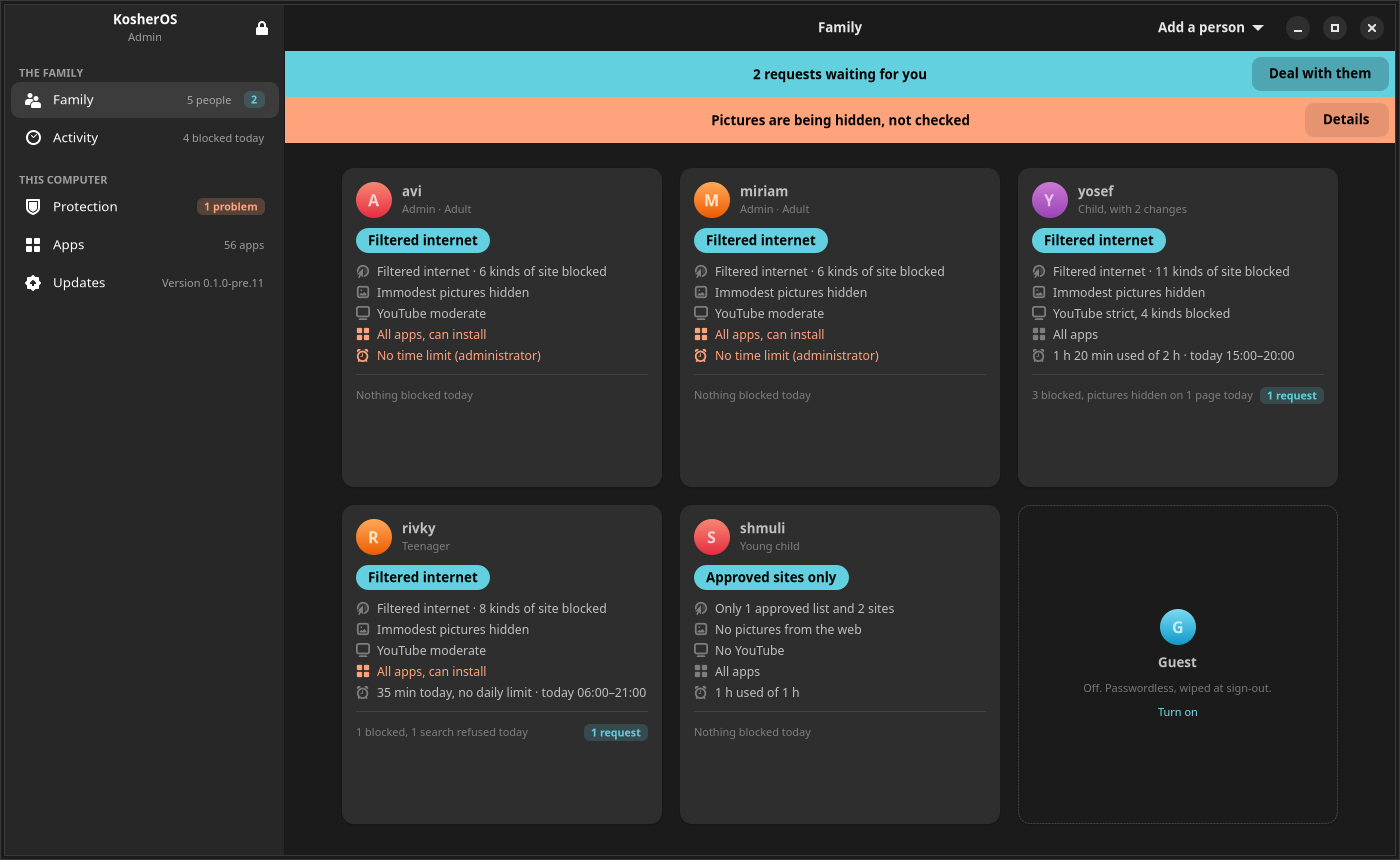
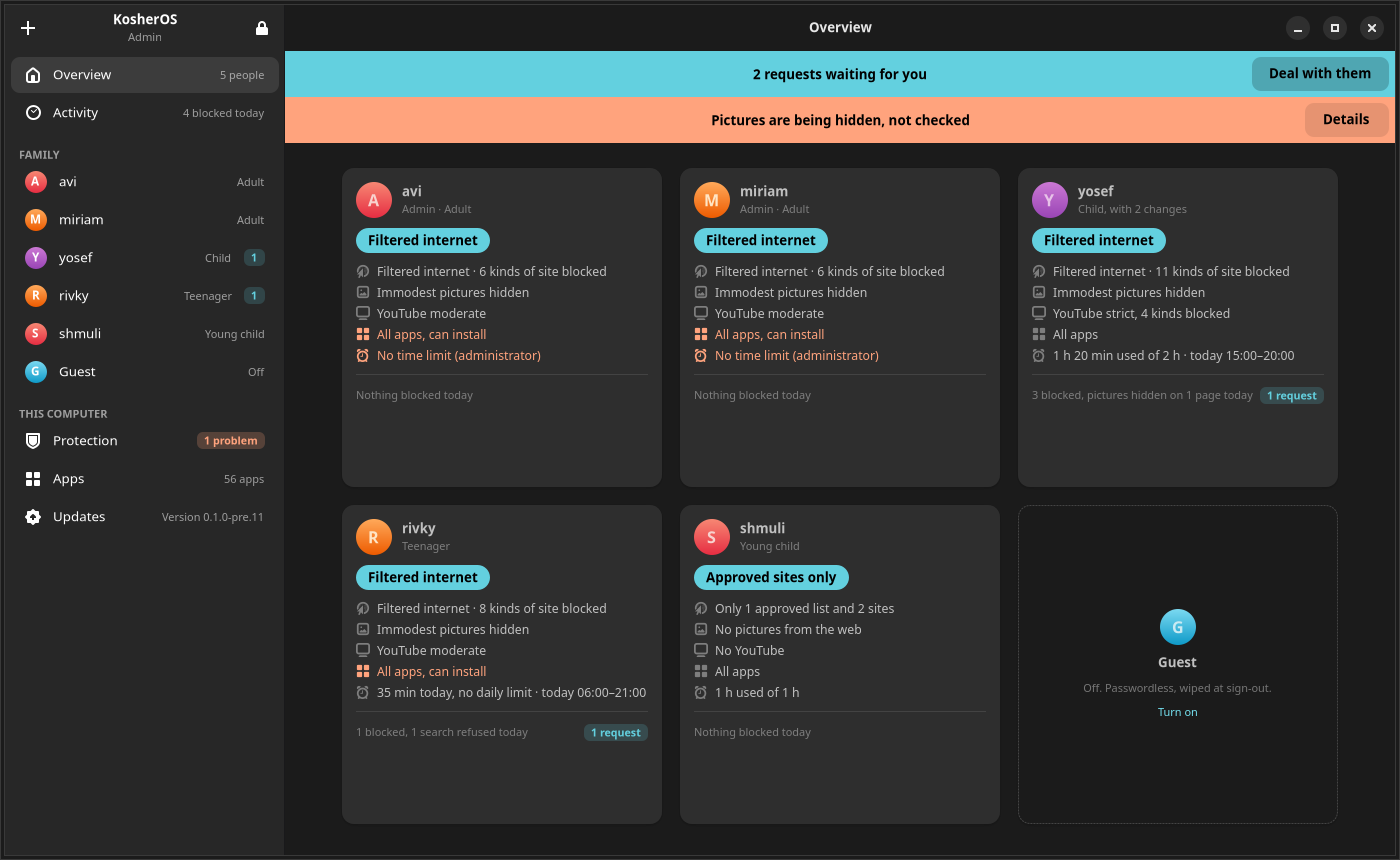
docs(admin): the README and site follow the family into the sidebar; screenshots reshot

diff --git a/admin-app/README.md b/admin-app/README.md
@@ -7,19 +7,24 @@ again.
 
 ## What it shows
 
-A **sidebar** (`sidebar.py`) down the left holds everywhere the app goes,
-in two sections. *The family* is per person: the board and the activity
-feed. *This computer* is the rest: Protection, Apps, Updates. Each row
-carries its own state on the right — how many people, how many apps,
-whether the filter is running — so the sidebar answers "is anything
-wrong?" before it is clicked. Under 700sp it collapses to one pane at a
-time.
+A **sidebar** (`sidebar.py`) down the left holds everywhere the app goes.
+At the top, the two views of the whole house: Overview and Activity.
+Then **Family**: one row per account, the guest last, each with its face,
+the preset it is set up as and a badge when somebody is waiting on an
+answer — the people an admin came to configure, in front of them on every
+page. Then **This computer**: Protection, Apps, Updates. Every row carries
+its own state on the right, so the sidebar answers "is anything wrong?"
+before it is clicked. Every destination replaces the content pane rather
+than pushing onto it, so nothing carries a back button the sidebar has
+already made meaningless. A + in the sidebar header adds a person. Under
+700sp it collapses to one pane at a time.
 
-The **family board** (`family.py`) is the home screen: one card per
-account with the preset it is set up as (and how far it has drifted:
-"Child, with 2 changes"), the same four lines of protection in the same
-order — web, pictures, video, apps — and what the filter did for that
-account today. The guest is a card like the others, dashed while off.
+The **Overview** (`family.py`) is the home screen: one card per account
+with the preset it is set up as (and how far it has drifted: "Child, with
+2 changes"), the same four lines of protection in the same order — web,
+pictures, video, apps — and what the filter did for that account today.
+The guest is a card like the others, dashed while off. A card goes where
+that person's sidebar row goes.
 
 Two banners sit above the board and appear only when they have something
 to say: waiting requests (blue — "2 requests waiting for you", one button
@@ -40,8 +45,8 @@ hid or refused, and what the admins changed, newest first. Who and when
 are chosen from the header bar, so the feed keeps the full width and the
 app has one sidebar rather than two. A blocked page has Allow on the row.
 
-A card opens the person's **page** (`detail.py`), pushed inside the
-content pane so the sidebar stays put: an overview (the
+A person's **page** (`detail.py`) fills the content pane with the sidebar
+beside it: an overview (the
 protection as chips, drift with a Reset button, blocked today with Allow,
 changes with who made them), then Filtering (the category grid on the
 page, with preset / All / None), Pictures, YouTube, Apps and

diff --git a/docs/overview.md b/docs/overview.md
@@ -14,8 +14,9 @@ without anyone having root. Powered by Fedora.
 [Releases](releases.md){ .md-button } [What works](supported.md){ .md-button }
 [How it is built](architecture.md){ .md-button }
 
-![The admin app: a sidebar with The family and This computer, one card per person, a blue
-banner for waiting requests, an amber one for filter health](images/admin-family-board.png)
+![The admin app: a sidebar listing every person in the family and this computer's own
+pages, one card per person, a blue banner for waiting requests, an amber one for filter
+health](images/admin-family-board.png)
 
 ## The idea
 
@@ -97,8 +98,10 @@ The admin app opens with one password and then everything works without another 
 ![The Protection page: is the filter working, what applies to everyone, and who may change
 it](images/admin-protection.png)
 
-**The computer has a page of its own.** *This computer* in the sidebar holds what is not
-about one person: Protection, Apps and Updates. Protection opens on whether the filter is
+**Everyone is one click away.** The sidebar lists the family by name, each with the
+preset they are set up as and a badge when they are waiting on an answer, and below them
+*This computer*: what is not about one person, in three pages — Protection, Apps and
+Updates. Protection opens on whether the filter is
 actually working, and then on the things one machine can only answer once — ad and tracker
 blocking, the word lists, the guardian password.
 
